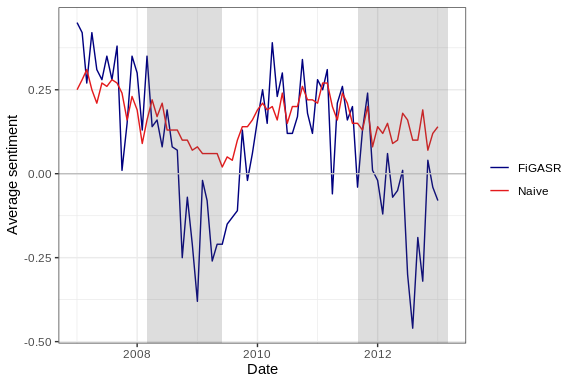
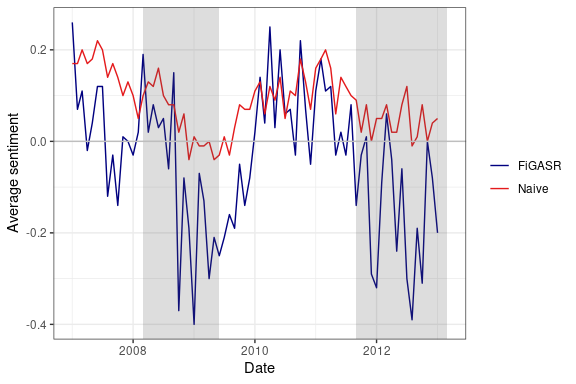
Update citation to JBES and KBS. Add example of ECB EB

Changed region(s): [[0.0, 0.0312, 0.8125, 1.0], [0.8438, 0.4062, 0.9688, 0.5312]]

diff --git a/README.md b/README.md
@@ -80,15 +80,101 @@ The first element of the output list provides the overall average
 sentiment score of each text, while the second provides the detailed
 score of each chunk of text that relates to one of the ToI.
 
+## ECB Economic Bulletin
+
+Among the available data sets, the package provides access to
+`senti_bignomics`, a fine-grained dictionary customized for economic
+sentiment analysis, and to `ecb_bulletin`, the [ECB Economic
+Bulletin](https://www.ecb.europa.eu/pub/economic-bulletin/html/index.en.html)\[1\]
+released between 1999 and 2019, and to `beige_book`, the [FED Beige
+Book](https://www.federalreserve.gov/monetarypolicy/beige-book-default.htm)
+released between 1983 and 2019.
+
+Let’s provide an example of some additional features of the package:
+assume that we want to extract the sentiment about “economic activity”
+on the ECB Economic Bulletin releases in 2007-13. The figure below plots
+the economic sentiment computed by `FiGASR`, which timely identifies the
+recessionary period indicated by the shadowed area following the [EABCN
+business cycles reference
+dates](https://eabcn.org/dc/chronology-euro-area-business-cycles).
+
+``` r
+data("ecb_bulletin")
+ecb_sub <- ecb_bulletin[ecb_bulletin$Date >= as.Date("2007-01-01") & ecb_bulletin$Date <= as.Date("2013-01-01"), ]
+text <- as.list(as.data.frame(ecb_sub)[, "Text"])
+
+## Compute sentiment about "economic activity"
+ecb_sent      <- get_sentiment(text = text,
+                              include = list("economic activity")) #, exclude = list("stock market"))
+
+## Add dates for original Doc_id
+library(ggplot2)
+library(dplyr, warn.conflicts=FALSE)
+ecb_dates <- ecb_sub %>%
+  mutate(Doc_id = row_number()) %>%
+  select(Doc_id, Date) %>%
+  left_join(ecb_sent$sentiment, by="Doc_id")
+
+## Plot the time series of the average sentiment
+ecb_dates %>%
+  ggplot(aes(x = Date, y = Average_sentiment)) +
+  geom_line(color="#000080") +
+  theme_bw() +
+  annotate("rect", xmin = as.Date("2008-03-01"), xmax = as.Date("2009-06-01"),
+           ymin=-Inf, ymax=Inf, alpha = .2) +
+  annotate("rect", xmin = as.Date("2011-09-01"), xmax = as.Date("2013-03-01"),
+           ymin=-Inf, ymax=Inf, alpha = .2) +
+  geom_hline(yintercept = 0, col="grey") +
+  ylab("Average sentiment")
+```
+
+![](man/figures/README-ECB%20Economic%20Bulletin-1.png)<!-- -->
+
+The `FiGASR` algorithm leverages on a set of semantic rules to identify
+the part of text that relates and characterize the token of interest.
+The argument `oss` allows to run a *naive* sentiment computation by
+assigning a score to each word in the text without the usage of semantic
+rules (i.e., overall sentiment score). The figure below shows the
+sentiment computed with the proposed algorithm (in blue) and in the
+naive way (in red): the former captures the recessionary period more
+**timely** and **accurately** than the latter.
+
+``` r
+## Overall sentiment score
+ecb_sent_OSS      <- get_sentiment(text = text,
+                              include = list("economic activity"),
+                              oss = TRUE)
+
+ecb_sent_comparison <- left_join(ecb_sent$sentiment, ecb_sent_OSS$sentiment, by="Doc_id")
+colnames(ecb_sent_comparison) <- c("Doc_id", "FiGASR", "Naive")
+
+## Plot the time series of the average sentiment
+library(tidyr)
+cbind(ecb_sent_comparison, ecb_sub) %>%
+  gather(var, val, 'FiGASR', Naive) %>%
+  ggplot(aes(x = Date, y = val, color=var, group=var)) +
+  geom_line() +
+  theme_bw() +
+  annotate("rect", xmin = as.Date("2008-03-01"), xmax = as.Date("2009-06-01"),
+           ymin=-Inf, ymax=Inf, alpha = .2) +
+  annotate("rect", xmin = as.Date("2011-09-01"), xmax = as.Date("2013-03-01"),
+           ymin=-Inf, ymax=Inf, alpha = .2) +
+  geom_hline(yintercept = 0, col="grey") +
+  ylab("Average sentiment") +
+  scale_colour_manual(values=c("#000080", "#E41A1C")) +
+  theme(legend.title = element_blank())
+```
+
+![](man/figures/README-OSS%20ECB%20Economic%20Bulletin-1.png)<!-- -->
+
 ## US sentiment
 
 The daily sentiment indicators used for the US used in [Barbaglia et
-al. (2021)](https://papers.ssrn.com/sol3/papers.cfm?abstract_id=3698121)
-can be accessed with the command `data("US_sentiment")`. The figure
-below plots the economic sentiment indicators, which timely identifies
-the recessionary period indicated by the shadowed area following the
-[NBER business cycles reference
-dates](https://www.nber.org/cycles.html).
+al. (2022)](https://doi.org/10.1080/07350015.2022.2060988) can be
+accessed with the command `data("US_sentiment")`. The figure below plots
+the economic sentiment indicators, which timely identifies the
+recessionary period indicated by the shadowed area following the [NBER
+business cycles reference dates](https://www.nber.org/cycles.html).
 
 <img src="man/figures/README-US sentiment-1.png" width="80%" />
 
@@ -98,13 +184,21 @@ If you use this package, please *cite* the following references:
 
 <!-- ## References: -->
 
-  - Barbaglia, Consoli, Manzan (May 26, 2021). Forecasting with Economic
-    News. Available at SSRN: <https://ssrn.com/abstract=3698121>
+  - Barbaglia, Consoli, Manzan (2022). Forecasting with Economic News.
+    *Journal of Business and Economic Statistics*:
+    <https://doi.org/10.1080/07350015.2022.2060988>
+
+  - Consoli, Barbaglia, Manzan (2022). Fine-Grained Aspect-Based
+    Sentiment Analysis on Economic and Financial Lexicon.
+    *Knowledge-Based Systems*:
+    <https://doi.org/10.1016/j.knosys.2022.108781>
 
   - Barbaglia, Consoli, Manzan (September 1, 2021). Forecasting GDP in
     Europe with Textual Data. Available at SSRN:
     <https://ssrn.com/abstract=3898680>
 
-  - Consoli, Barbaglia, Manzan (January 14, 2021). Fine-Grained
-    Aspect-Based Sentiment Analysis on Economic and Financial Lexicon.
-    Available at SSRN: <https://ssrn.com/abstract=3766194>
+<!-- end list -->
+
+1.  ECB Economic Bulletin copyright notice disclaimer “All rights
+    reserved. Reproduction for educational and non-commercial purposes
+    is permitted provided that the source is acknow ledged”.
